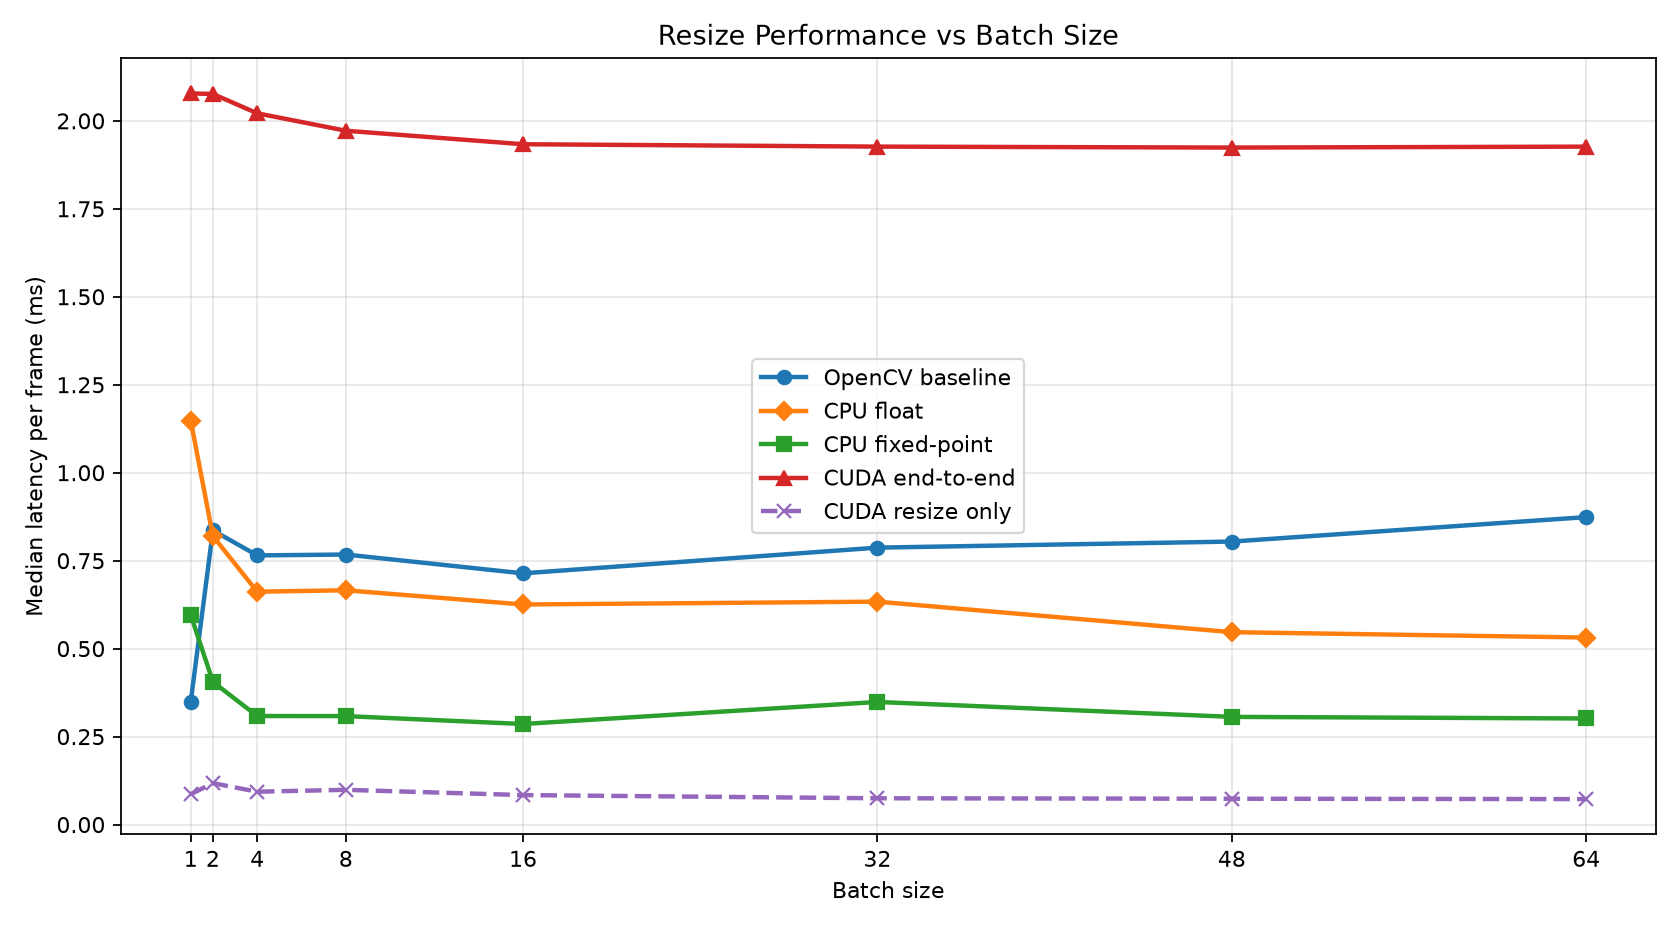
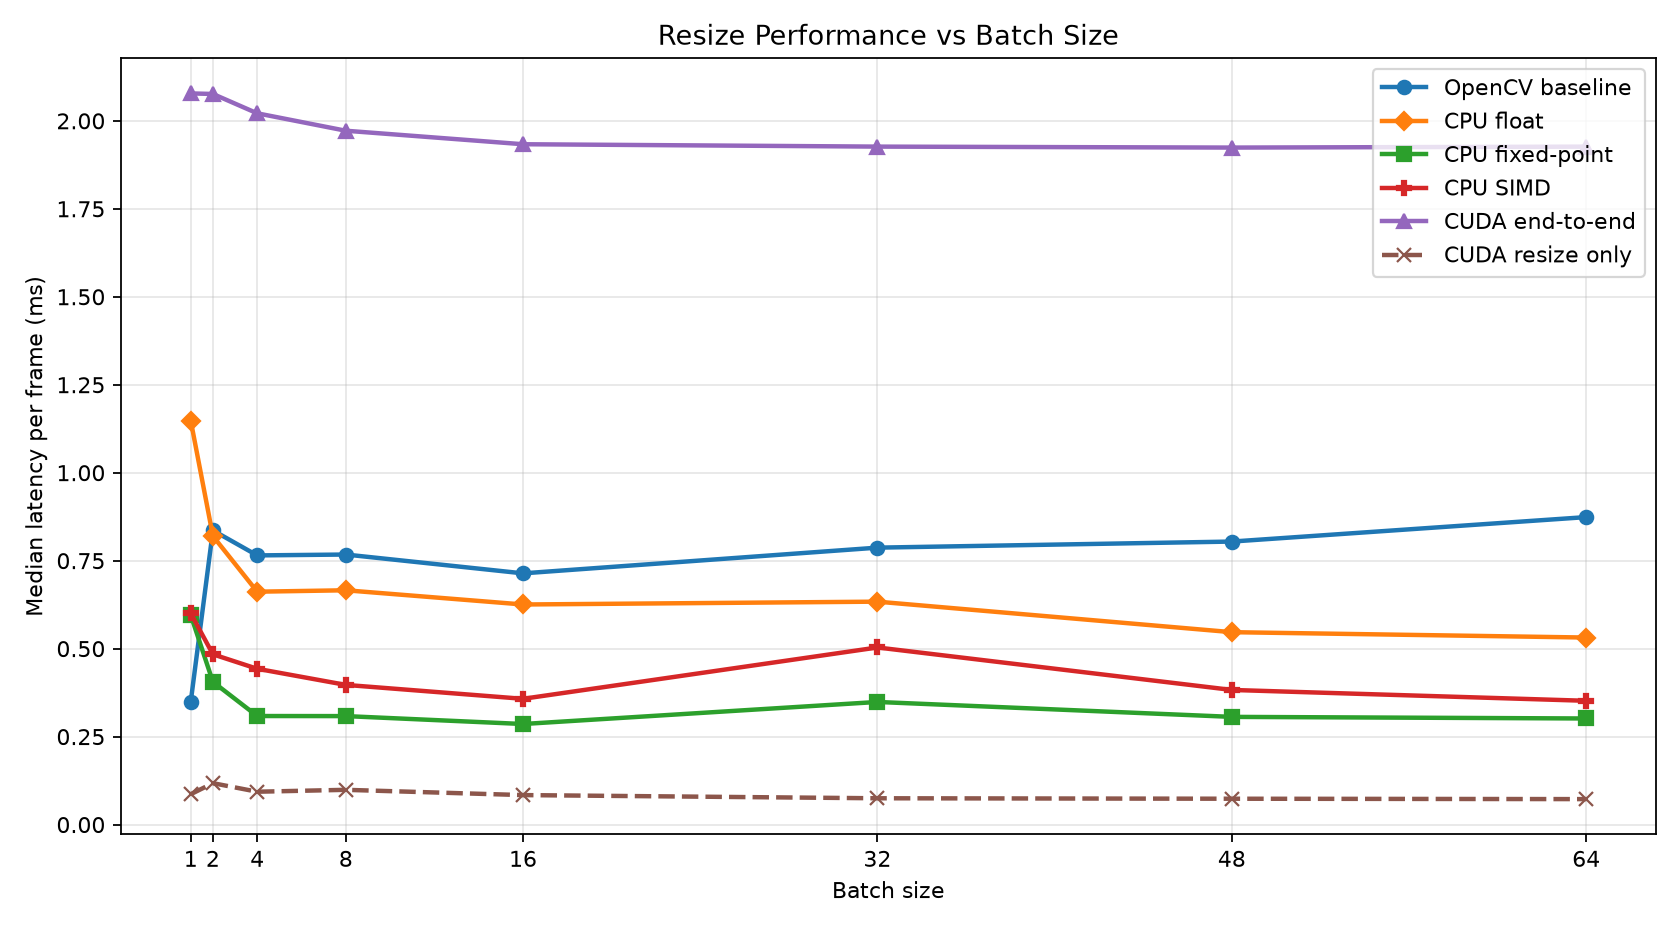
final version

diff --git a/cpu/python_fast_cpu_resize_simd.cpp b/cpu/python_fast_cpu_resize_simd.cpp
@@ -30,6 +30,10 @@ struct AxisTable {
     std::vector<int> lower;
     std::vector<int> upper;
     std::vector<int> weightFixed;
+    std::vector<int> lowerOffset;
+    std::vector<int> upperOffset;
+    std::vector<int> weightFixedByValue;
+    std::vector<int> invWeightFixedByValue;
 };
 
 struct ResizeConfig {
@@ -56,6 +60,10 @@ AxisTable makeAxisTable(int srcSize, int dstSize) {
     table.lower.resize(static_cast<std::size_t>(dstSize));
     table.upper.resize(static_cast<std::size_t>(dstSize));
     table.weightFixed.resize(static_cast<std::size_t>(dstSize));
+    table.lowerOffset.resize(static_cast<std::size_t>(dstSize) * 3);
+    table.upperOffset.resize(static_cast<std::size_t>(dstSize) * 3);
+    table.weightFixedByValue.resize(static_cast<std::size_t>(dstSize) * 3);
+    table.invWeightFixedByValue.resize(static_cast<std::size_t>(dstSize) * 3);
 
     const float scale =
         static_cast<float>(srcSize) / static_cast<float>(dstSize);
@@ -70,11 +78,23 @@ AxisTable makeAxisTable(int srcSize, int dstSize) {
             std::clamp(rawLower, 0, srcSize - 1);
         table.upper[static_cast<std::size_t>(dst)] =
             std::clamp(rawUpper, 0, srcSize - 1);
-        table.weightFixed[static_cast<std::size_t>(dst)] = std::clamp(
+        const int weightFixed = std::clamp(
             static_cast<int>(std::lrintf(weight * kWeightScale)),
             0,
             kWeightScale
         );
+        table.weightFixed[static_cast<std::size_t>(dst)] = weightFixed;
+
+        for (int channel = 0; channel < 3; ++channel) {
+            const auto valueIndex = static_cast<std::size_t>(dst * 3 + channel);
+            table.lowerOffset[valueIndex] =
+                table.lower[static_cast<std::size_t>(dst)] * 3 + channel;
+            table.upperOffset[valueIndex] =
+                table.upper[static_cast<std::size_t>(dst)] * 3 + channel;
+            table.weightFixedByValue[valueIndex] = weightFixed;
+            table.invWeightFixedByValue[valueIndex] =
+                kWeightScale - weightFixed;
+        }
     }
 
     return table;
@@ -90,26 +110,61 @@ void horizontalFixedRow(
     const ResizeConfig& config,
     const AxisTable& xTable
 ) {
-    for (int dstX = 0; dstX < config.dstWidth; ++dstX) {
-        const auto xIndex = static_cast<std::size_t>(dstX);
-        const int x0 = xTable.lower[xIndex];
-        const int x1 = xTable.upper[xIndex];
-        const int wx = xTable.weightFixed[xIndex];
-        const int invWx = kWeightScale - wx;
+    const int count = config.dstWidth * 3;
+    int index = 0;
 
-        const int offset0 = x0 * 3;
-        const int offset1 = x1 * 3;
-        const int dstOffset = dstX * 3;
+#if defined(__AVX2__)
+    for (; index + 8 <= count; index += 8) {
+        const int* lower = xTable.lowerOffset.data() + index;
+        const int* upper = xTable.upperOffset.data() + index;
 
-        scaledRow[dstOffset] =
-            srcRow[offset0] * invWx +
-            srcRow[offset1] * wx;
-        scaledRow[dstOffset + 1] =
-            srcRow[offset0 + 1] * invWx +
-            srcRow[offset1 + 1] * wx;
-        scaledRow[dstOffset + 2] =
-            srcRow[offset0 + 2] * invWx +
-            srcRow[offset1 + 2] * wx;
+        const __m256i p0 = _mm256_setr_epi32(
+            srcRow[lower[0]],
+            srcRow[lower[1]],
+            srcRow[lower[2]],
+            srcRow[lower[3]],
+            srcRow[lower[4]],
+            srcRow[lower[5]],
+            srcRow[lower[6]],
+            srcRow[lower[7]]
+        );
+        const __m256i p1 = _mm256_setr_epi32(
+            srcRow[upper[0]],
+            srcRow[upper[1]],
+            srcRow[upper[2]],
+            srcRow[upper[3]],
+            srcRow[upper[4]],
+            srcRow[upper[5]],
+            srcRow[upper[6]],
+            srcRow[upper[7]]
+        );
+        const __m256i wx = _mm256_loadu_si256(
+            reinterpret_cast<const __m256i*>(
+                xTable.weightFixedByValue.data() + index
+            )
+        );
+        const __m256i invWx = _mm256_loadu_si256(
+            reinterpret_cast<const __m256i*>(
+                xTable.invWeightFixedByValue.data() + index
+            )
+        );
+        const __m256i value = _mm256_add_epi32(
+            _mm256_mullo_epi32(p0, invWx),
+            _mm256_mullo_epi32(p1, wx)
+        );
+        _mm256_storeu_si256(
+            reinterpret_cast<__m256i*>(scaledRow + index),
+            value
+        );
+    }
+#endif
+
+    for (; index < count; ++index) {
+        scaledRow[index] =
+            srcRow[xTable.lowerOffset[static_cast<std::size_t>(index)]] *
+                xTable.invWeightFixedByValue[static_cast<std::size_t>(index)] +
+            srcRow[xTable.upperOffset[static_cast<std::size_t>(index)]] *
+                xTable.weightFixedByValue[static_cast<std::size_t>(index)];
     }
 }
 

diff --git a/history.md b/history.md
@@ -369,7 +369,44 @@ batch=1 median_ms_per_frame 约 0.71 ms
 batch=8 median_ms_per_frame 约 0.37 ms
 ```
 
-当前 SIMD 版本对 batch=1 有明显改善，但 batch 场景未必稳定超过 `cpu_fixed`。原因是水平插值阶段仍然是标量，SIMD 主要优化了中间行输出打包和垂直混合。后续如果继续 SIMD，应重点优化水平插值阶段。
+随后继续优化 `horizontalFixedRow()`，增加 offset 展开表：
+
+```text
+lowerOffset
+upperOffset
+weightFixedByValue
+invWeightFixedByValue
+```
+
+水平阶段每 8 个输出通道使用 AVX2 做 fixed-point 乘加。由于 RGB 是交错存储，输入字节仍然需要按 offset 取值，但权重乘加和中间行写入已经向量化。
+
+二次快速验证结果：
+
+```text
+非整数比例小尺寸测试 max_abs_diff=1
+3840x1920 -> 640x640, batch=1, max_abs_diff=0
+3840x1920 -> 640x640, batch=8, max_abs_diff=0
+```
+
+快速性能观察：
+
+```text
+batch=1 median_ms_per_frame 约 0.85 ms
+batch=8 median_ms_per_frame 约 0.28 ms
+```
+
+这版水平 SIMD 对 batch 吞吐更有帮助，但 batch=1 仍未超过 OpenCV baseline。原因可能是 RGB 交错布局导致水平 SIMD 需要 offset gather-like 加载，单帧下调度和准备成本仍比较明显。
+
+正式 `resize_suite_pool2` 结果显示，`cpu_simd` 整体不如 `cpu_fixed`：
+
+```text
+batch=1  cpu_simd / cpu_fixed 约 1.01x
+batch=4  cpu_simd / cpu_fixed 约 1.44x
+batch=32 cpu_simd / cpu_fixed 约 1.44x
+batch=64 cpu_simd / cpu_fixed 约 1.17x
+```
+
+结论是当前 SIMD 方案不适合作为最终结果。主要原因是水平阶段虽然使用 AVX2 乘加，但 RGB 交错布局导致输入仍需要按 offset 收集，`_mm256_setr_epi32` 等构造向量的成本抵消了 SIMD 收益。最终报告中应优先使用 `cpu_fixed`，把 `cpu_simd` 作为探索性优化和负结果记录。
 
 ## 13. 后续方向
 
@@ -377,7 +414,7 @@ CPU 方向：
 
 ```text
 继续做行缓冲复用
-继续做水平插值阶段 SIMD
+继续评估更适合 RGB 交错布局的 SIMD 加载/打包方式
 评估 batch=1 是否还受线程调度和 OpenCV SIMD 优势影响
 ```
 